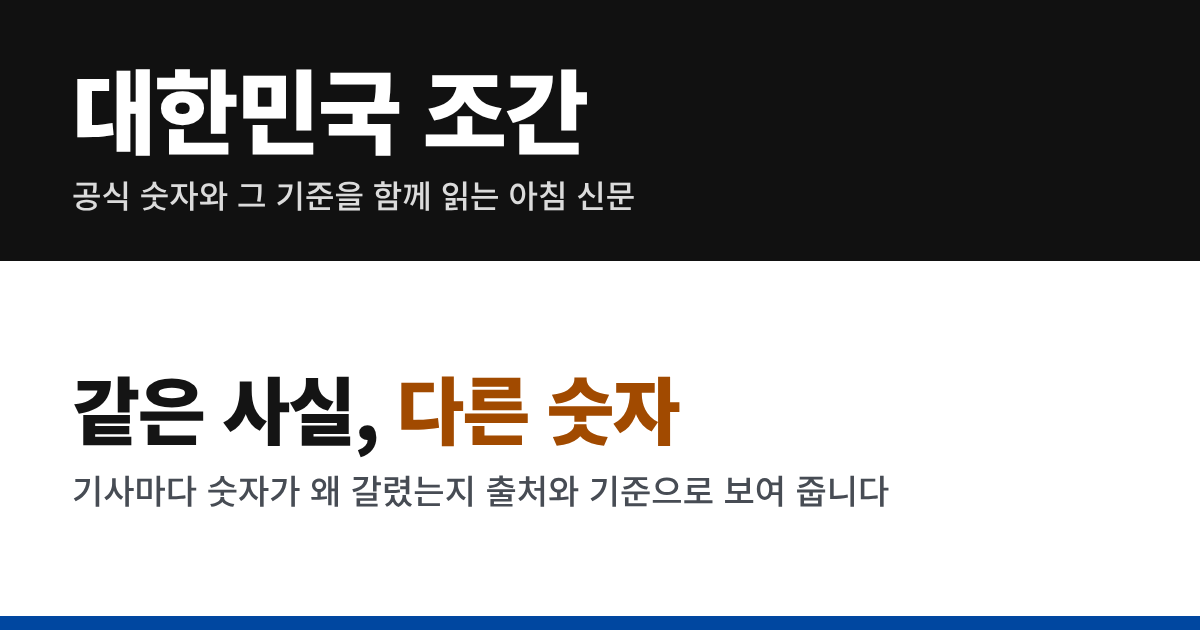
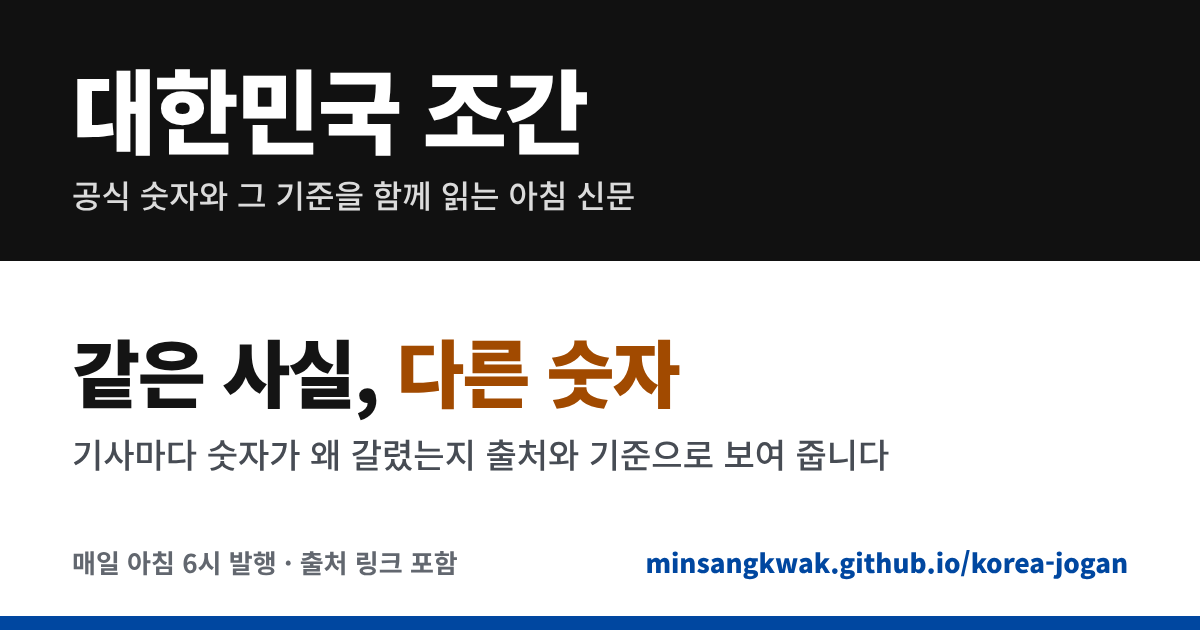
feat(site): 검색·공유 메타와 앱 아이콘, GA4 측정 연결 추가
- twitter·robots·JSON-LD(WebSite·NewsMediaOrganization) 메타, 검색엔진 소유 확인 자리
- 파비콘(svg)·앱 아이콘(192·512·180)·manifest. PNG는 scripts/og/build.mjs가 함께 만든다
- 제목에 그날 머리기사와 호 날짜를 넣고, 지난 호는 canonical·og:url을 ?d= 주소로 바꾼다
- jg-ga4에 측정 ID를 넣으면 GA4가 켜진다. 기존 track() 이벤트와 issue_date가 붙은 page_view를 보낸다
- 공유 카드에 발행 시각과 주소를 넣었다

Claude-Session: https://claude.ai/code/session_01MipaUSfxyWABDNNTMBerKD

Changed region(s): [[0.0617, 0.5127, 0.74, 0.8143], [0.5242, 0.8746, 0.9558, 0.9349], [0.0617, 0.8746, 0.4008, 0.9349]]

diff --git a/public/index.html b/public/index.html
@@ -5,6 +5,9 @@
 <meta name="viewport" content="width=device-width, initial-scale=1, viewport-fit=cover">
 <title>대한민국 조간</title>
 <meta name="description" content="공식 통계와 공개 자료로 읽는 오늘의 대한민국. 수치의 출처와 기준을 함께 보여 줍니다.">
+<meta name="author" content="MinsangKwak">
+<meta name="robots" content="index, follow, max-image-preview:large, max-snippet:-1">
+<meta name="format-detection" content="telephone=no">
 <link rel="canonical" href="https://minsangkwak.github.io/korea-jogan/">
 <meta property="og:type" content="website">
 <meta property="og:title" content="대한민국 조간">
@@ -15,13 +18,54 @@
 <meta property="og:image" content="https://minsangkwak.github.io/korea-jogan/og.png">
 <meta property="og:image:width" content="1200">
 <meta property="og:image:height" content="630">
+<meta property="og:image:type" content="image/png">
 <meta property="og:image:alt" content="대한민국 조간 · 같은 사실, 다른 숫자">
 <meta name="twitter:card" content="summary_large_image">
+<meta name="twitter:title" content="대한민국 조간">
+<meta name="twitter:description" content="같은 사실, 다른 숫자. 기사마다 숫자가 왜 갈렸는지 출처와 기준으로 보여 주는 아침 신문입니다.">
+<meta name="twitter:image" content="https://minsangkwak.github.io/korea-jogan/og.png">
+<meta name="twitter:image:alt" content="대한민국 조간 · 같은 사실, 다른 숫자">
 <link rel="alternate" type="application/rss+xml" title="대한민국 조간" href="feed.xml">
 <meta name="color-scheme" content="light dark">
 <meta name="theme-color" content="#111111">
+<meta name="application-name" content="대한민국 조간">
+<meta name="apple-mobile-web-app-title" content="조간">
+<link rel="icon" href="favicon.svg" type="image/svg+xml">
+<link rel="icon" href="icon-192.png" type="image/png" sizes="192x192">
+<link rel="apple-touch-icon" href="apple-touch-icon.png">
+<link rel="manifest" href="manifest.webmanifest">
+<!-- 검색엔진 소유 확인(선택). Search Console·네이버 서치어드바이저에서 받은 값을 content에 넣는다 -->
+<meta name="google-site-verification" content="">
+<meta name="naver-site-verification" content="">
+<script type="application/ld+json">
+{
+  "@context": "https://schema.org",
+  "@graph": [
+    {
+      "@type": "WebSite",
+      "@id": "https://minsangkwak.github.io/korea-jogan/#website",
+      "url": "https://minsangkwak.github.io/korea-jogan/",
+      "name": "대한민국 조간",
+      "description": "공식 통계와 공개 자료로 읽는 오늘의 대한민국. 수치의 출처와 기준을 함께 보여 줍니다.",
+      "inLanguage": "ko-KR",
+      "publisher": { "@id": "https://minsangkwak.github.io/korea-jogan/#org" }
+    },
+    {
+      "@type": "NewsMediaOrganization",
+      "@id": "https://minsangkwak.github.io/korea-jogan/#org",
+      "name": "대한민국 조간",
+      "url": "https://minsangkwak.github.io/korea-jogan/",
+      "logo": { "@type": "ImageObject", "url": "https://minsangkwak.github.io/korea-jogan/icon-512.png", "width": 512, "height": 512 },
+      "correctionsPolicy": "https://github.com/MinsangKwak/korea-jogan/blob/main/docs/DAILY_RUNBOOK.md#정정",
+      "sameAs": ["https://github.com/MinsangKwak/korea-jogan"]
+    }
+  ]
+}
+</script>
 <!-- 방문 측정(선택). GoatCounter 주소를 넣으면 켜진다. 예: https://korea-jogan.goatcounter.com/count -->
 <meta name="jg-goatcounter" content="">
+<!-- GA4 측정 ID를 넣으면 켜진다. 예: G-XXXXXXXXXX -->
+<meta name="jg-ga4" content="">
 <link rel="preconnect" href="https://fonts.googleapis.com">
 <link rel="preconnect" href="https://fonts.gstatic.com" crossorigin>
 <link rel="stylesheet" href="https://fonts.googleapis.com/css2?family=Noto+Sans+KR:wght@400;500;700;900&display=swap">
@@ -497,20 +541,53 @@ const longDate = (s) => parseDate(s).toLocaleDateString('ko-KR', { month: 'long'
 // D-Day는 지난 날이면 D+로 쓴다
 const dday = (date) => { const n = daysBetween(ISSUE, date); return n >= 0 ? 'D-' + fmt(n) : 'D+' + fmt(-n); };
 
-// 방문·행동 측정. jg-goatcounter가 비어 있으면 아무것도 보내지 않는다
-// GoatCounter는 쿠키를 쓰지 않고 개인을 식별하지 않는다
-const GC = (document.querySelector('meta[name="jg-goatcounter"]') || {}).content || '';
-function setupMetrics() {
-  if (!GC) return;
+// 방문·행동 측정. jg-goatcounter·jg-ga4가 비어 있으면 그 도구로는 아무것도 보내지 않는다
+// GoatCounter는 쿠키를 쓰지 않고 개인을 식별하지 않는다. GA4는 쿠키(_ga)를 쓴다
+const metaContent = (name) => (document.querySelector('meta[name="' + name + '"]') || {}).content || '';
+const GC = metaContent('jg-goatcounter');
+const GA = /^G-[A-Z0-9]+$/.test(metaContent('jg-ga4')) ? metaContent('jg-ga4') : '';
+function addScript(src, data) {
   const sc = document.createElement('script');
   sc.async = true;
-  sc.src = 'https://gc.zgo.at/count.js';
-  sc.dataset.goatcounter = GC;
+  sc.src = src;
+  Object.assign(sc.dataset, data || {});
   document.head.append(sc);
 }
+function setupMetrics() {
+  if (GC) addScript('https://gc.zgo.at/count.js', { goatcounter: GC });
+  if (GA) {
+    window.dataLayer = window.dataLayer || [];
+    // gtag.js는 arguments 객체 그대로를 받는다
+    window.gtag = function gtag() { window.dataLayer.push(arguments); };
+    window.gtag('js', new Date());
+    // 첫 page_view는 호를 읽은 뒤 issue_date를 붙여 직접 보낸다
+    window.gtag('config', GA, { send_page_view: false });
+    addScript('https://www.googletagmanager.com/gtag/js?id=' + GA);
+  }
+}
+// GA4 page_view. 어느 호를 열었는지(issue_date)와 지난 호인지(past)를 함께 남긴다
+function trackView(date, past) {
+  if (!GA) return;
+  window.gtag('event', 'page_view', { page_title: document.title, page_location: location.href, issue_date: date || '', past: !!past });
+}
+// GA4 이벤트 이름은 영문·숫자·밑줄만 받는다. menu-open → menu_open
 function track(name, title) {
-  if (!GC || !window.goatcounter || !window.goatcounter.count) return;
-  window.goatcounter.count({ path: name, title: title || name, event: true });
+  if (GC && window.goatcounter && window.goatcounter.count) window.goatcounter.count({ path: name, title: title || name, event: true });
+  if (GA) window.gtag('event', name.replace(/[^A-Za-z0-9_]/g, '_'), { label: title || '' });
+}
+
+// 지난 호(?d=)를 열면 제목·대표 주소·공유 주소를 그 호에 맞춘다. 최신 호는 머리기사만 제목에 붙인다
+function renderHead() {
+  const headline = (D.lead && D.lead.headline) || D.headline || '';
+  const issue = D.date.replace(/-/g, '.') + '호';
+  document.title = (headline ? headline + ' · ' : '') + issue + ' · 대한민국 조간';
+  if (!VIEWING_PAST) return;
+  // 로컬에서 열어도 공개 주소를 쓰도록 canonical에 적힌 주소를 바탕으로 만든다
+  const canon = document.querySelector('link[rel="canonical"]');
+  const url = new URL('?d=' + D.date, canon ? canon.href : location.href).href;
+  if (canon) canon.setAttribute('href', url);
+  const og = document.querySelector('meta[property="og:url"]');
+  if (og) og.setAttribute('content', url);
 }
 
 function el(tag, attrs, text) {
@@ -1487,9 +1564,12 @@ async function boot() {
   } catch (e) {
     renderLoadError();
     setupNav();
+    trackView('', false);
     return;
   }
   ISSUE = parseDate(D.date);
+  renderHead();
+  trackView(D.date, VIEWING_PAST);
   renderStale();
   renderNotice();
   renderAsOf();

diff --git a/scripts/og/card.html b/scripts/og/card.html
@@ -11,10 +11,12 @@ body { width: 1200px; height: 630px; word-break: keep-all; font-family: "Noto Sa
 .top h1 { font-size: 92px; font-weight: 900; letter-spacing: -.03em; line-height: 1.1; }
 .top p { margin-top: 14px; font-size: 32px; font-weight: 500; opacity: .85; }
 /* 카드는 늘 같은 이미지라 특정 호의 숫자를 넣지 않는다 */
-.body { flex: 1; padding: 40px 72px; display: flex; flex-direction: column; justify-content: center; gap: 14px; }
+.body { flex: 1; padding: 32px 72px; display: flex; flex-direction: column; justify-content: center; gap: 14px; }
 .big { font-size: 74px; font-weight: 900; letter-spacing: -.03em; line-height: 1.2; }
 .big b { color: #a14a00; }
 .say { font-size: 34px; font-weight: 500; line-height: 1.45; color: #474c54; }
+.foot { display: flex; justify-content: space-between; align-items: center; padding: 0 72px 36px; font-size: 26px; font-weight: 700; color: #62676f; }
+.foot b { color: #0047a0; }
 .bar { height: 14px; background: #0047a0; }
 </style>
 </head>
@@ -27,6 +29,7 @@ body { width: 1200px; height: 630px; word-break: keep-all; font-family: "Noto Sa
     <p class="big">같은 사실, <b>다른 숫자</b></p>
     <p class="say">기사마다 숫자가 왜 갈렸는지 출처와 기준으로 보여 줍니다</p>
   </div>
+  <div class="foot"><span>매일 아침 6시 발행 · 출처 링크 포함</span><b>minsangkwak.github.io/korea-jogan</b></div>
   <div class="bar"></div>
 </body>
 </html>

diff --git a/scripts/og/icon.html b/scripts/og/icon.html
@@ -1,0 +1,17 @@
+<!doctype html>
+<html lang="ko">
+<head>
+<meta charset="utf-8">
+<link rel="stylesheet" href="https://fonts.googleapis.com/css2?family=Noto+Sans+KR:wght@900&display=swap">
+<style>
+/* 앱 아이콘 512×512. build.mjs가 192·180 크기로 줄여 찍는다 */
+/* 글자는 가운데 80% 안에 두어 마스크(원·둥근 사각)로 잘려도 보이게 한다 */
+* { box-sizing: border-box; margin: 0; }
+html, body { width: 512px; height: 512px; }
+body { position: relative; background: #111111; color: #ffffff; font-family: "Noto Sans KR", sans-serif; display: grid; place-items: center; }
+b { font-size: 300px; font-weight: 900; line-height: 1; transform: translateY(-14px); }
+i { position: absolute; left: 0; right: 0; bottom: 0; height: 56px; background: #0047a0; }
+</style>
+</head>
+<body><b>조</b><i></i></body>
+</html>

diff --git a/README.md b/README.md
@@ -82,6 +82,8 @@ korea-jogan/
 │   │   ├── tokens.css              디자인 토큰 CSS 변수. design/tokens.json에서 만듭니다(손으로 고치지 않음)
 │   │   └── kj.css                  디자인 시스템 컴포넌트(kj- 접두사)
 │   ├── og.png                      공유 미리보기 이미지(1200×630). scripts/og/에서 만듭니다
+│   ├── favicon.svg · icon-*.png    파비콘·앱 아이콘. PNG는 scripts/og/에서 만듭니다
+│   ├── manifest.webmanifest        홈 화면 추가용 앱 정보
 │   └── data/
 │       ├── corrections.json        정정 기록
 │       └── issues/                 날짜별 발행 데이터
@@ -93,7 +95,7 @@ korea-jogan/
 ├── scripts/
 │   ├── validate.py                 발행 전 검사. --deploy면 승인 전 초안도 막습니다
 │   ├── approve.py                  사람이 확인한 초안을 공개(published)로 바꿉니다
-│   ├── build_feed.py               RSS(feed.xml). 배포할 때 만듭니다
+│   ├── build_feed.py               RSS(feed.xml)·사이트맵(sitemap.xml). 배포할 때 만듭니다
 │   ├── build_tokens.py             design/tokens.json → public/assets/tokens.css. --check로 최신 여부 검사
 │   ├── ecos_nums.py                ECOS 원본을 핵심 숫자(nums) 꼴로 바꿉니다
 │   ├── build_live.py               ECOS 최신 공식 숫자(public/data/live.json). 배포할 때 만들고 저장소에는 올리지 않음

diff --git a/docs/portfolio/01-product.md b/docs/portfolio/01-product.md
@@ -35,7 +35,7 @@
 
 ## 성공 지표
 
-측정은 [GoatCounter](https://www.goatcounter.com/)로 합니다. 쿠키를 쓰지 않고 개인을 식별하지 않습니다. `public/index.html`의 `<meta name="jg-goatcounter">`에 주소를 넣으면 켜지고, 비워 두면 아무것도 보내지 않습니다. 검색어 원문은 보내지 않고 걸린 주제 이름만 셉니다.
+측정은 [GoatCounter](https://www.goatcounter.com/)와 Google Analytics 4로 합니다. `public/index.html`의 `<meta name="jg-goatcounter">`에 주소를, `<meta name="jg-ga4">`에 측정 ID(`G-…`)를 넣으면 각각 켜지고, 비워 두면 그 도구로는 아무것도 보내지 않습니다. GoatCounter는 쿠키를 쓰지 않고 개인을 식별하지 않습니다. GA4는 쿠키(`_ga`)를 쓰며, 아래 이벤트 이름을 그대로 받고(`-`는 `_`로 바뀜) 제목은 `label`, 연 호는 `page_view`의 `issue_date`로 남깁니다. 두 도구 모두 검색어 원문은 보내지 않고 걸린 주제 이름만 셉니다.
 
 | 구분 | 지표 | 어떻게 재나 |
 | --- | --- | --- |
